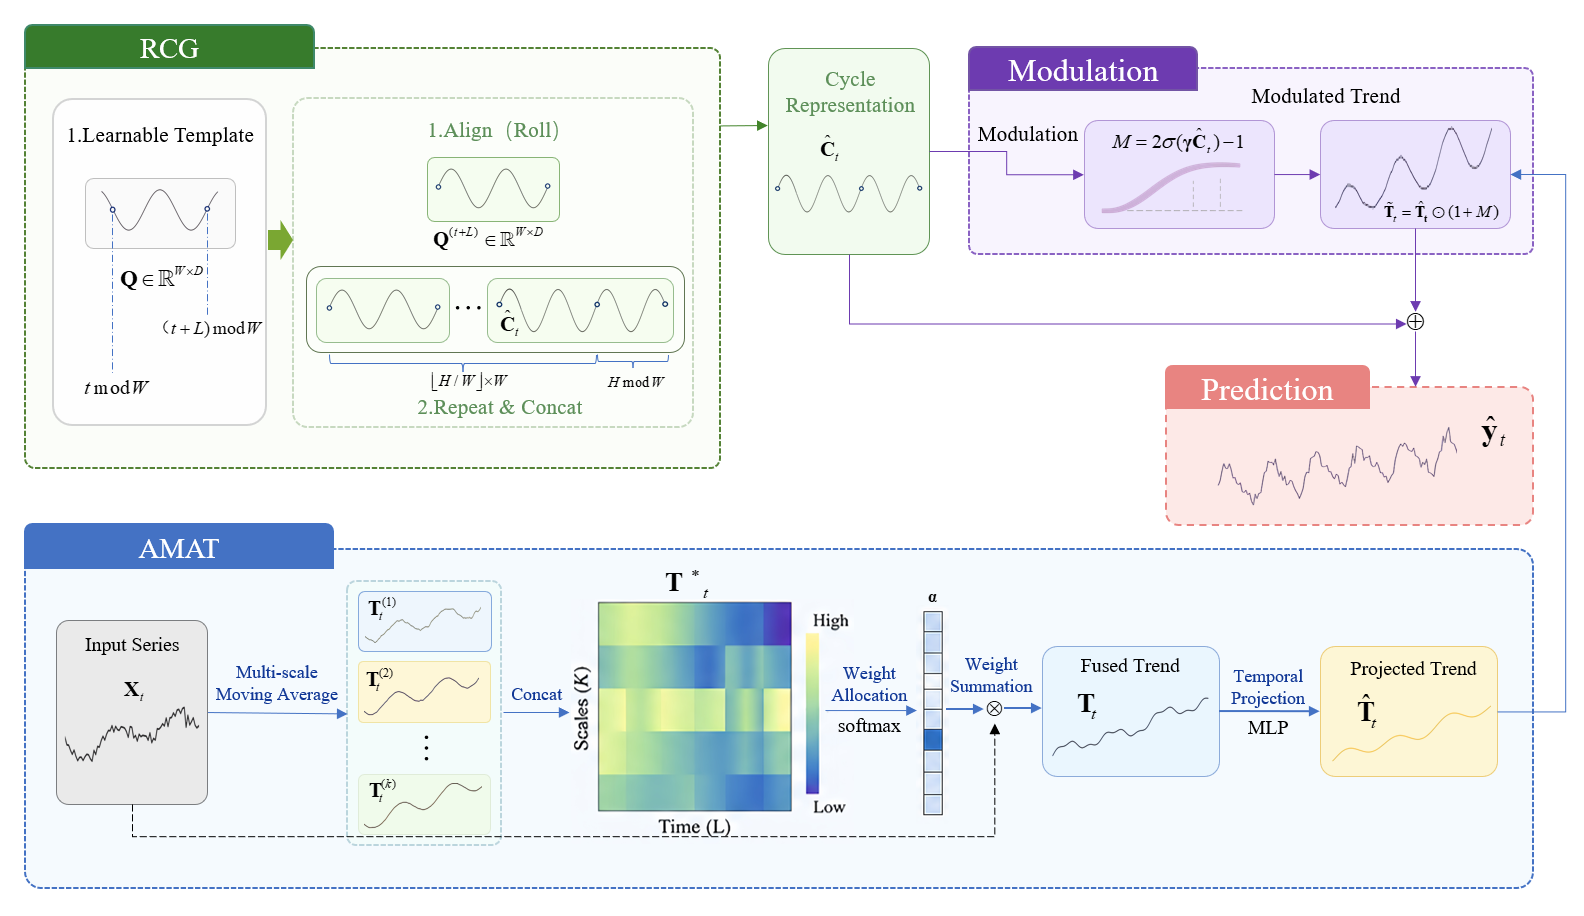
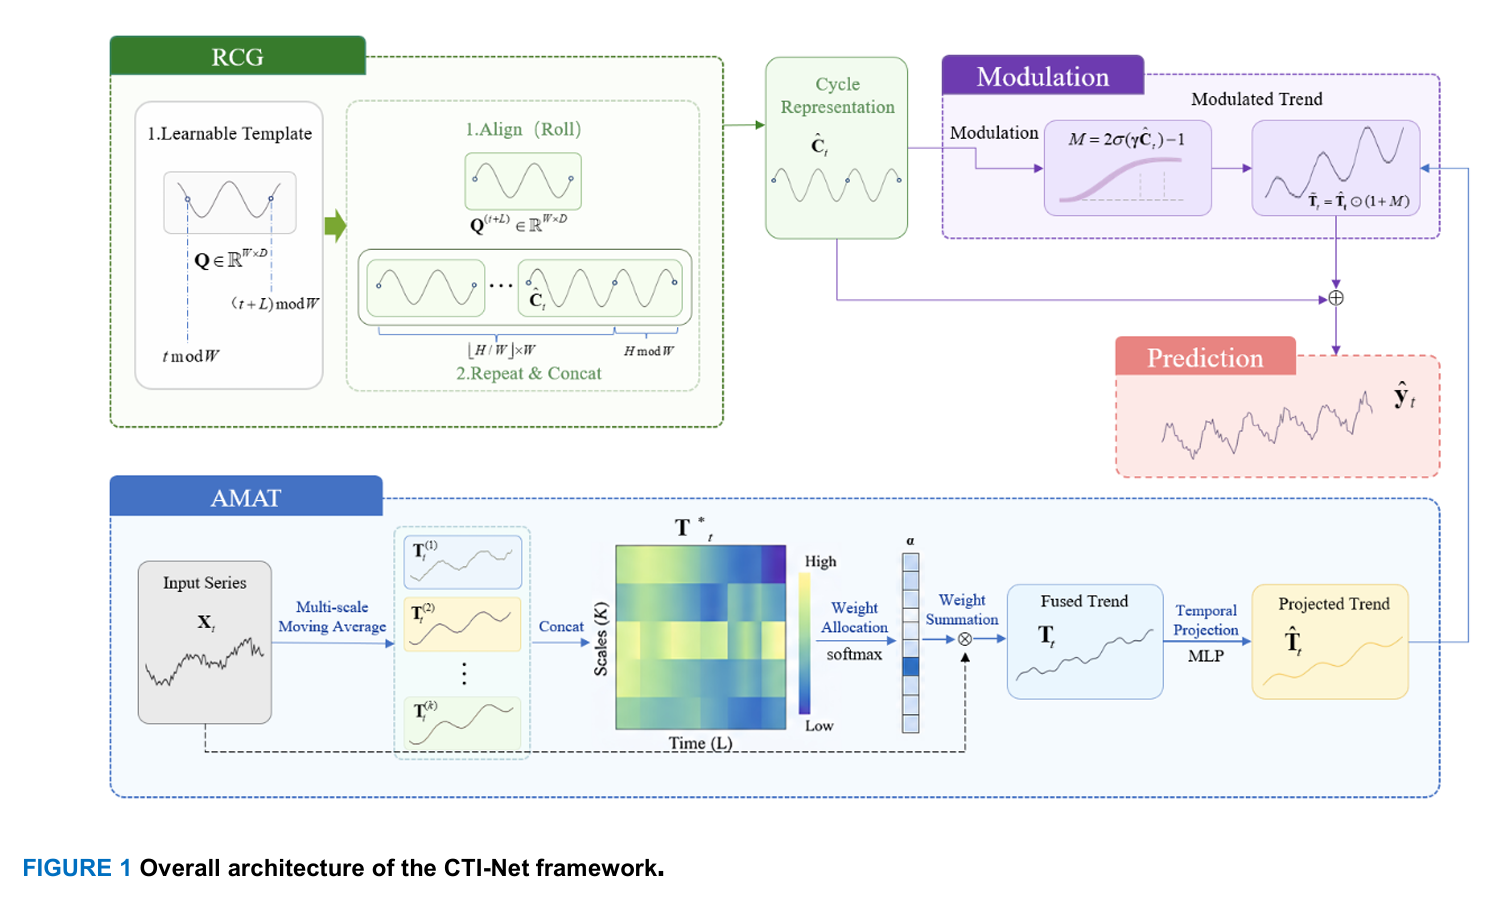
Update CTINet

diff --git a/README.md b/README.md
@@ -8,7 +8,6 @@ CTI-Net is a lightweight time series forecasting framework that explicitly model
 <p align="center">
 <img src=".\images\FIGURE 1.png" width = "700" alt="" align=center />
 <br><br>
-<b>FIGURE 1.</b> Overall architecture of the CTI-Net framework.
 </p>
 
 ## Environment Requirements
@@ -26,12 +25,12 @@ pip install -r requirements.txt
 * Pre-processed datasets can be downloaded from the following
   links, [Tsinghua Cloud](https://cloud.tsinghua.edu.cn/d/e1ccfff39ad541908bae/)
   or [Google Drive](https://drive.google.com/drive/folders/1ZOYpTUa82_jCcxIdTmyr0LXQfvaM9vIy?usp=sharing).
-* Place the downloaded datasets into the `dataset/` folder, e.g. `dataset/ETTh1.csv`.
+* Place the downloaded datasets into the `data/` folder, e.g. `data/ETTh1.csv`.
 
 ## Usage
 
 1. Install the required dependencies.
-2. Download data as above, and place them in the folder, `dataset/`.
+2. Download data as above, and place them in the folder, `data/`.
 3. Train the model. We provide the experiment scripts of all benchmarks under the folder `./scripts`,
    e.g. `./scripts/ETTh1.sh`. You might have to change permissions on the script files by running`chmod u+x scripts/*`.
 
